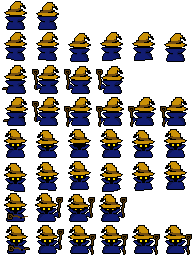
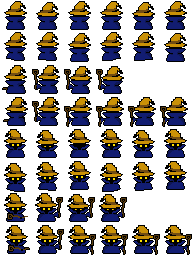
got collision working boiiiii shoot a bat

diff --git a/collision.js b/collision.js
@@ -1,52 +1,36 @@
 // if two points are equal they are collding
-function pointToPoint(A, B)
-{
-	if(A.x === B.x && A.y === B.y)
-	{
-		return true;
-	}
-	return false;
+function pointToPoint(A, B) {
+    return A.x === B.x && A.y === B.y;
 }
 
 //if the distance between a point and a circle is less than the radius of the circle they are colliding
-function pointToCircle(A, B, range)
-{
-	let dist = (B.y - A.y) * (B.y - A.y) + (B.x - A.x) * (B.x - A.x);
-	dist = Math.sqrt(dist);
-	
-	if(dist <= range)
-	{
-		return true;
-	}
-	return false;
+function pointToCircle(A, B, range) {
+    let dist = (B.y - A.y) * (B.y - A.y) + (B.x - A.x) * (B.x - A.x);
+    dist = Math.sqrt(dist);
+
+    return dist <= range;
+
 }
 
 // if two circles are closer than their combined radius they are colliding
-function circleToCircle(A, B)
-{
-	let dist = (B.y - A.y) * (B.y - A.y) + (B.x - A.x) * (B.x - A.x);
-	dist = Math.sqrt(dist);
-	
-	if(dist <= A.radius + B.radius)
-	{
-		return true;
-	}
-	return false;
+function circleToCircle(A, B) {
+    let dist = (B.y - A.y) * (B.y - A.y) + (B.x - A.x) * (B.x - A.x);
+    dist = Math.sqrt(dist);
+
+    return dist <= A.radius + B.radius;
+
 }
 
 //Make a big square the size of both squares combined with the center point of A.
 //If B's center point lies within that square, these two squares collide.
-function squareToSquare(A, B)
-{
-	let halfW = (A.width + B.width) / 2;
-	let halfH = (A.height + B.height) / 2;
-	
-	if(B.x <= A.x + halfW && B.x >= A.x - halfW)
-	{
-		if(B.y <= A.y + halfH && B.y >= A.y - halfH)
-		{
-			return true;
-		}
-	}
-	return false;
+function squareToSquare(A, B) {
+    let halfW = (A.width + B.width) / 2;
+    let halfH = (A.height + B.height) / 2;
+
+    if (B.x <= A.x + halfW && B.x >= A.x - halfW) {
+        if (B.y <= A.y + halfH && B.y >= A.y - halfH) {
+            return true;
+        }
+    }
+    return false;
 }

diff --git a/projectile.js b/projectile.js
@@ -20,11 +20,13 @@ function Projectile(game, x, y, dir, speed, lifetime, owner, animation, dmg, rad
     this.animation = animation;
     this.animation.resetAnimation();
     this.dir = dir;
-    this.radius = radius;
+    this.radius = 1;
     this.speed = speed;
     this.ctx = game.ctx;
     this.dmg = dmg;
     this.owner = owner;
+    this.x = x;
+    this.y = y;
 
     let that = this;
     
@@ -37,16 +39,18 @@ Projectile.prototype = new Entity();
 Projectile.prototype.constructor = Projectile;
 
 Projectile.prototype.update = function () {
-    this.x += this.dir.x * this.game._clockTick * this.speed;
-    this.y += this.dir.y * this.game._clockTick * this.speed;
-
+    // AAAAAAAAAAAAHHHHHHHHHHHHHHHHHHHH
+    var that = this;
     if (this.owner instanceof Player) {
         //For each enemy
         this.game.entities[1].forEach(function(elem) {
-            if (circleToCircle(this, elem)) {
-                this.removeFromWorld = true;
+            if (circleToCircle(that, elem)) {
+                that.removeFromWorld = true;
                 elem.removeFromWorld = true;
             }
         });
     }
+
+    this.x += this.dir.x * this.game._clockTick * this.speed;
+    this.y += this.dir.y * this.game._clockTick * this.speed;
 };

diff --git a/playerCharacter/player.js b/playerCharacter/player.js
@@ -287,6 +287,8 @@ Player.prototype.regularAttack = function () {
     let projectile = new Projectile(this.game,
         playerCenter.x, playerCenter.y,
         attackVector,
-        500, 0.5, this, projectileAnimation, 1, 20); // slowed down projectile for debugging
+        500, 0.5,
+        this, projectileAnimation,
+        1, 20); // slowed down projectile for debugging
     this.game.addEntity(projectile, "pps");
 };

diff --git a/enemies/bat.js b/enemies/bat.js
@@ -13,7 +13,7 @@ Bat.prototype.constructor = Bat;
 Bat.prototype.update = function () {
 	this.x += 2;
 	this.y += 2;
-}
+};
 
 // Important for spawned enemies this is effectively a second constructor.
 Bat.prototype.init = function(game, x, y)
@@ -26,7 +26,9 @@ Bat.prototype.init = function(game, x, y)
 		this.speed = 100;
 		this.game = game;
 		this.ctx = game.ctx;
-		
+		this.radius = 32;
+
+
 		this.set = true;
 	}
 }

diff --git a/playerCharacter/blackMage.js b/playerCharacter/blackMage.js
@@ -54,7 +54,7 @@ function BlackMage() {
         //Up facing animations
         idleUp: new Animation(upAndDown,
             32, 32,
-            {x: 0, y: 0}, {x: 1, y: 0},
+            {x: 0, y: 0}, {x: 5, y: 0},
             6, false, STANDARD_DRAW_SCALE[0]),
         walkingUp: new Animation(upAndDown,
             32, 32,
